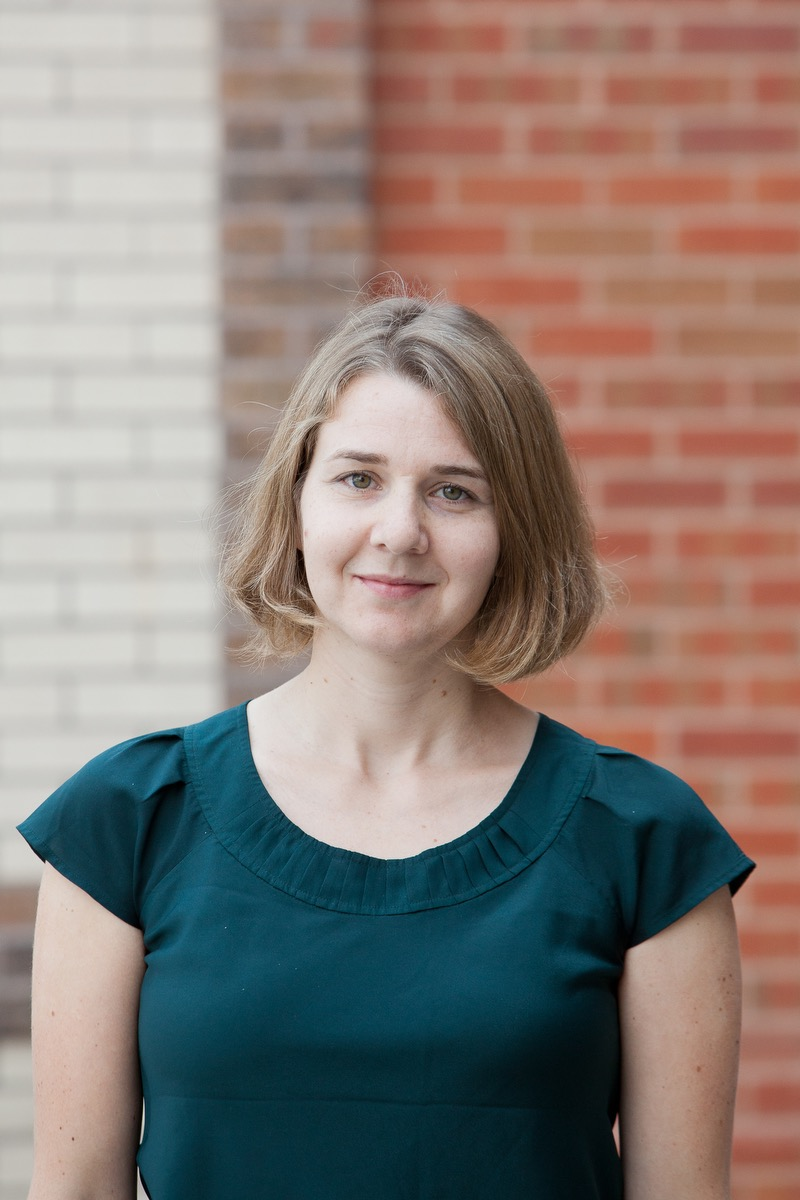
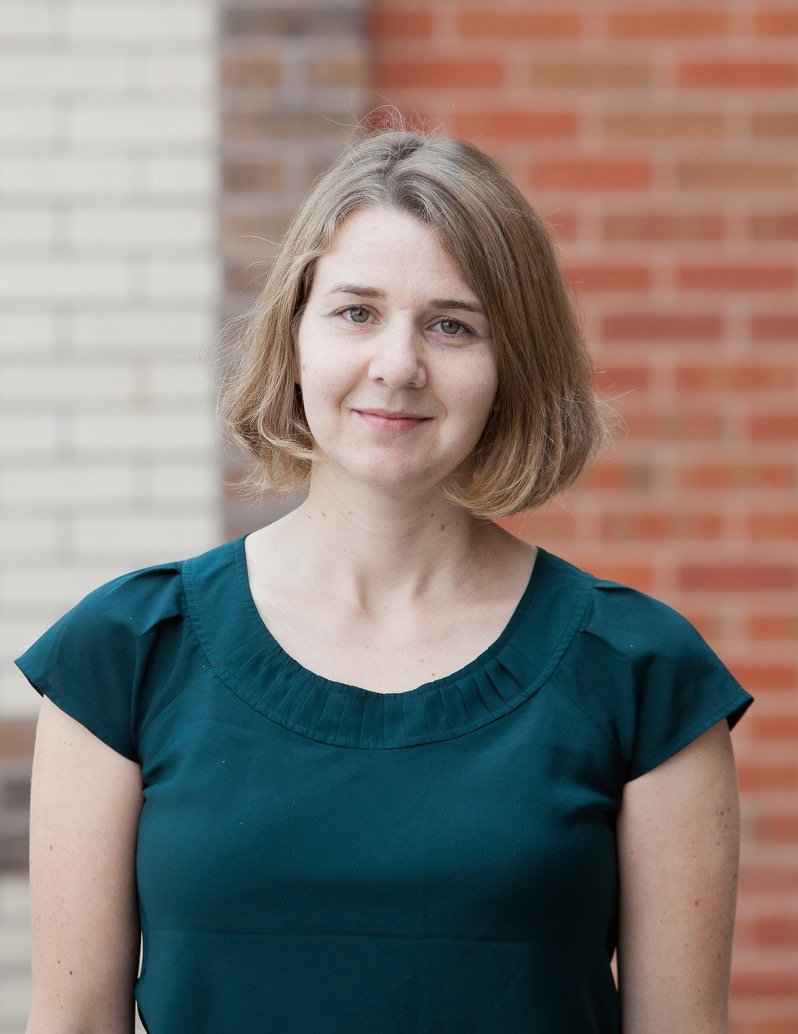
Cropped the photo.

diff --git a/about.md b/about.md
@@ -4,7 +4,7 @@ title: About
 header: About
 description: ""
 ---
-<img style="float: left; margin-right: 20px; width: 50vh;" src="/images/diana_hhh3.jpg"/>
+<img style="float: left; margin-top: 18px; margin-right: 20px; width: 54vh;" src="/images/diana_hhh3.jpg"/>
 
 I'm an optimization and data enthusiast based in Boulder, CO. 
 
